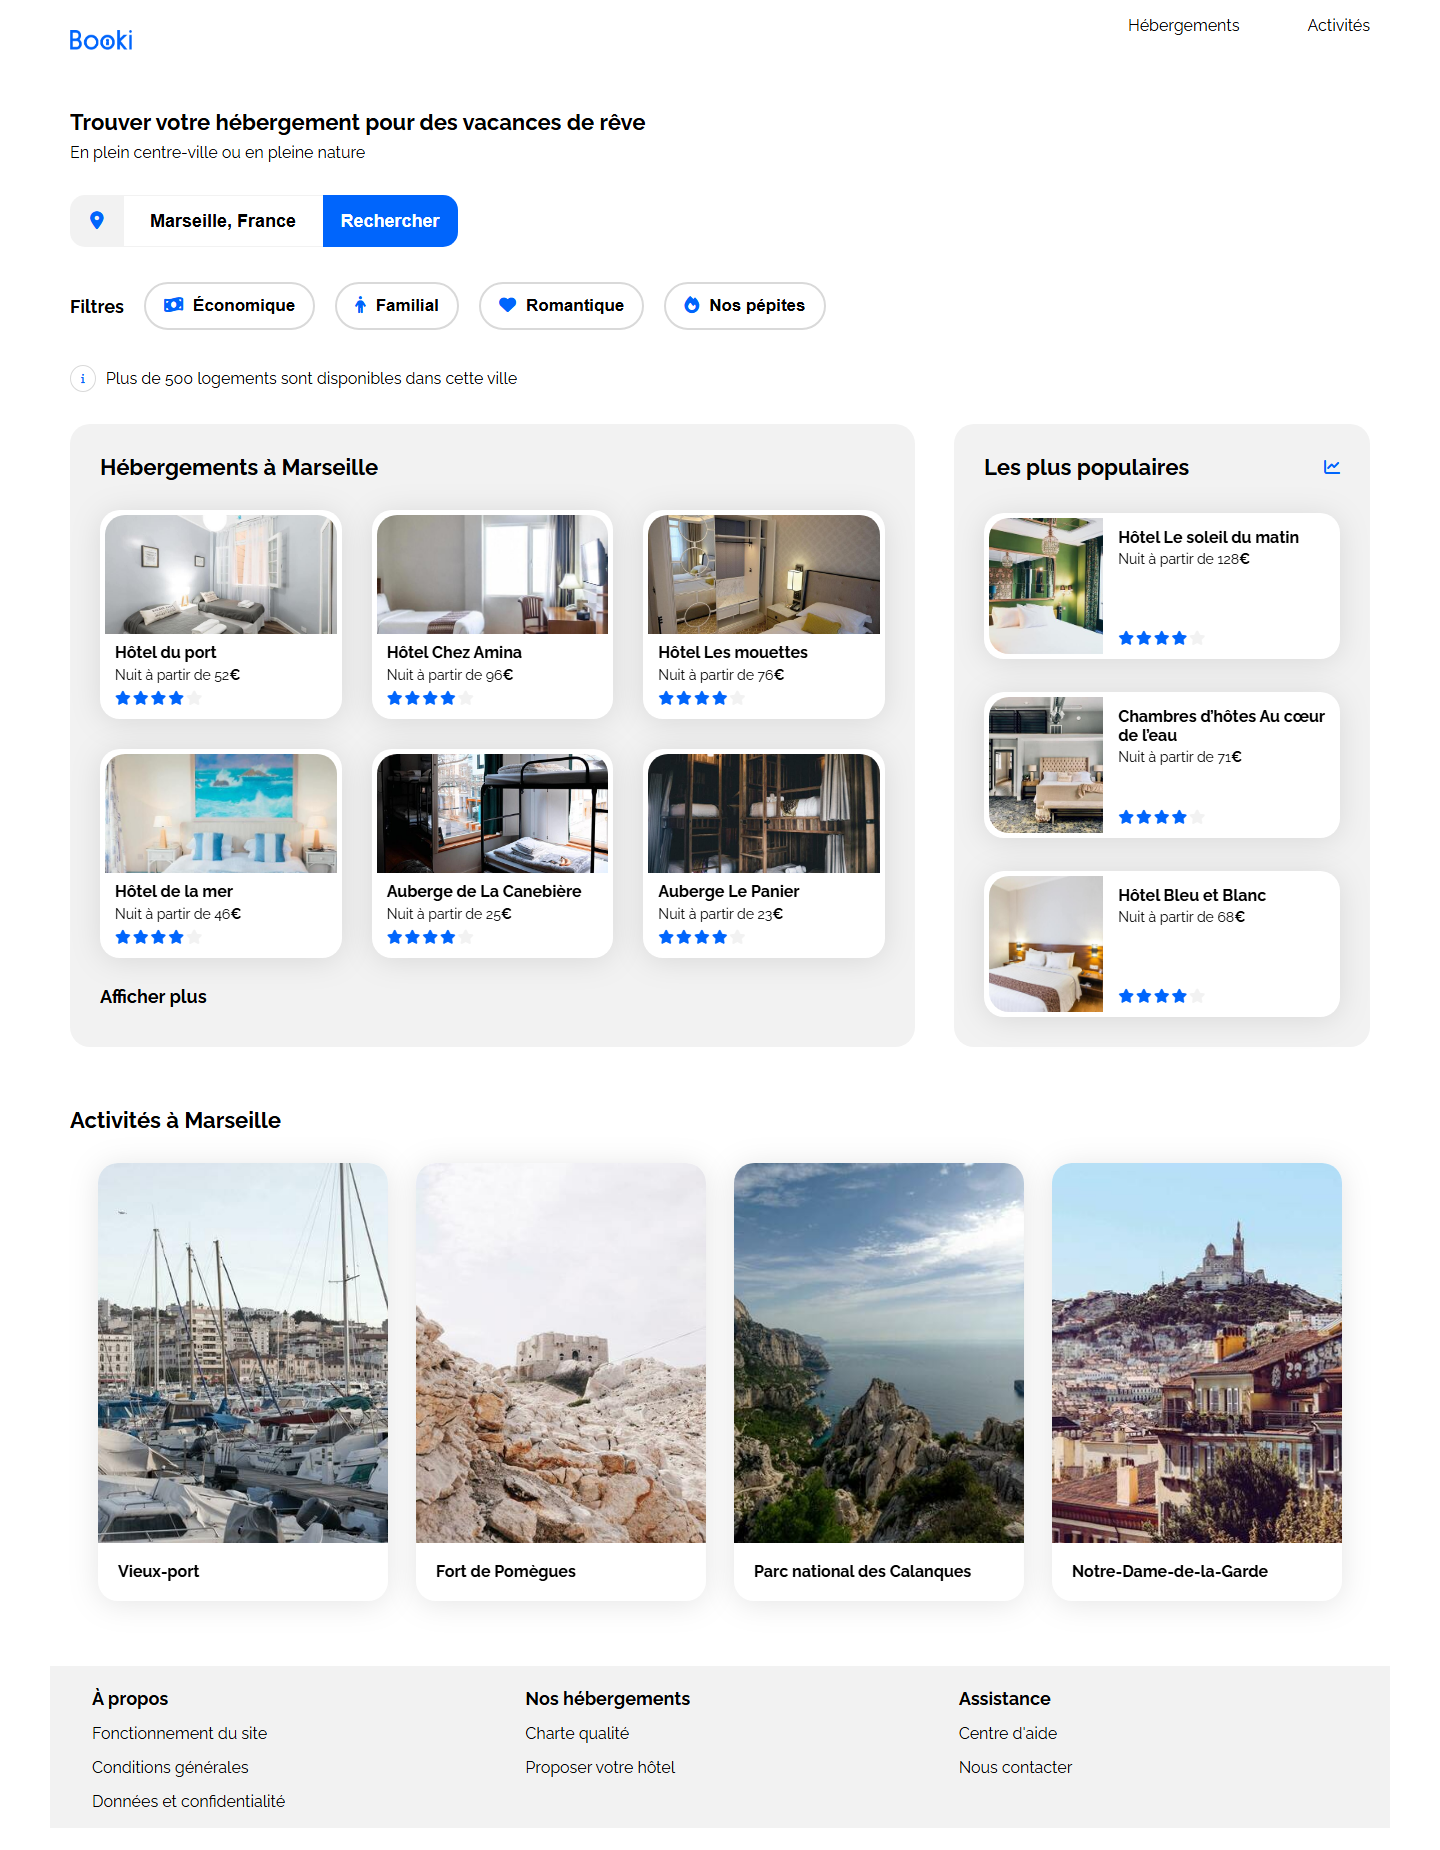
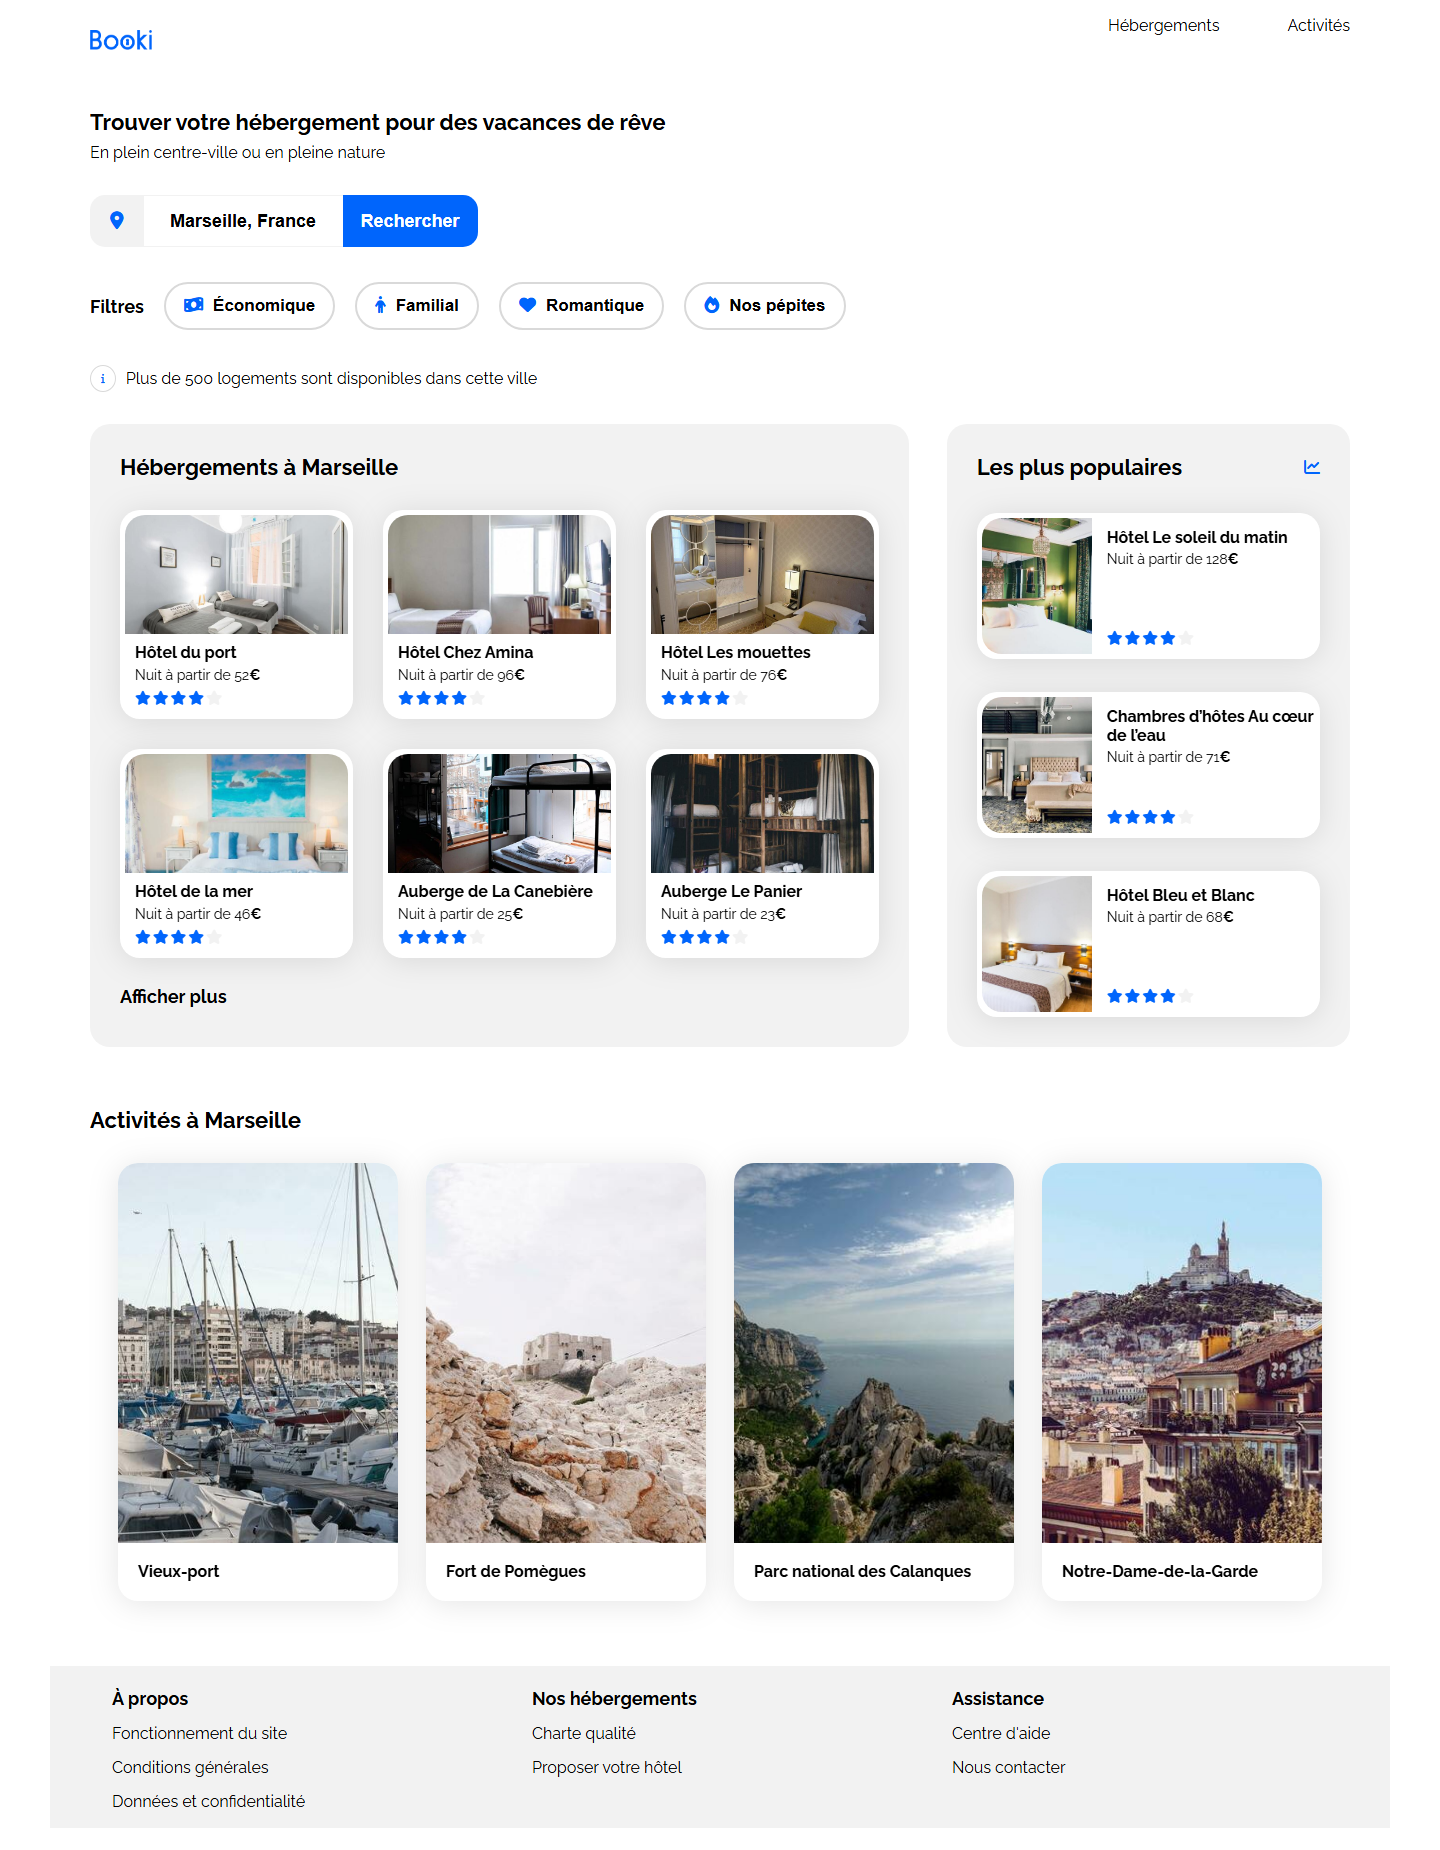
Ajuste les marges latérales entre 1024px et 1340px
Le padding de 20px suffisait à éviter que le contenu touche le bord
mais restait trop serré tant que le centrage par max-width n'entre pas
encore en jeu. Passage à 40px sur les conteneurs de page, avec un
retour explicite à 20px pour .hebergements-and-populaires en mobile
(nécessaire au débordement edge-to-edge de .populaires).

diff --git a/css/style.css b/css/style.css
@@ -38,8 +38,8 @@ a{
 header{
     max-width: 1340px;
     margin:0px auto 30px auto;
-    padding-left: 20px;
-    padding-right: 20px;
+    padding-left: 40px;
+    padding-right: 40px;
     box-sizing: border-box;
     display: flex;
     justify-content: space-between;
@@ -78,8 +78,8 @@ header nav a:hover {
 #trouver{
     max-width: 1340px;
     margin:auto;
-    padding-left: 20px;
-    padding-right: 20px;
+    padding-left: 40px;
+    padding-right: 40px;
     box-sizing: border-box;
     }
 
@@ -250,8 +250,8 @@ header nav a:hover {
     justify-content: space-between;
     max-width: 1340px;
     margin: auto auto 60px auto;
-    padding-left: 20px;
-    padding-right: 20px;
+    padding-left: 40px;
+    padding-right: 40px;
     box-sizing: border-box;
     }
 
@@ -351,8 +351,8 @@ header nav a:hover {
 .activites_marseille{
     max-width: 1340px;
     margin:auto ;
-    padding-left: 20px;
-    padding-right: 20px;
+    padding-left: 40px;
+    padding-right: 40px;
     box-sizing: border-box;
     }
 
@@ -388,8 +388,8 @@ header nav a:hover {
 footer{
     max-width: 1340px;
     margin:auto;
-    padding-left: 20px;
-    padding-right: 20px;
+    padding-left: 40px;
+    padding-right: 40px;
     box-sizing: border-box;
     display: flex;
     background-color: var(--main-bg-color);
@@ -557,6 +557,9 @@ footer div{
 
     .hebergements-and-populaires{
     flex-direction: column-reverse;
+    /* padding ramené à 20px : .populaires s'appuie dessus pour déborder pile jusqu'aux bords de l'écran */
+    padding-left: 20px;
+    padding-right: 20px;
     }
 
     .hebergements_marseille-cards{
